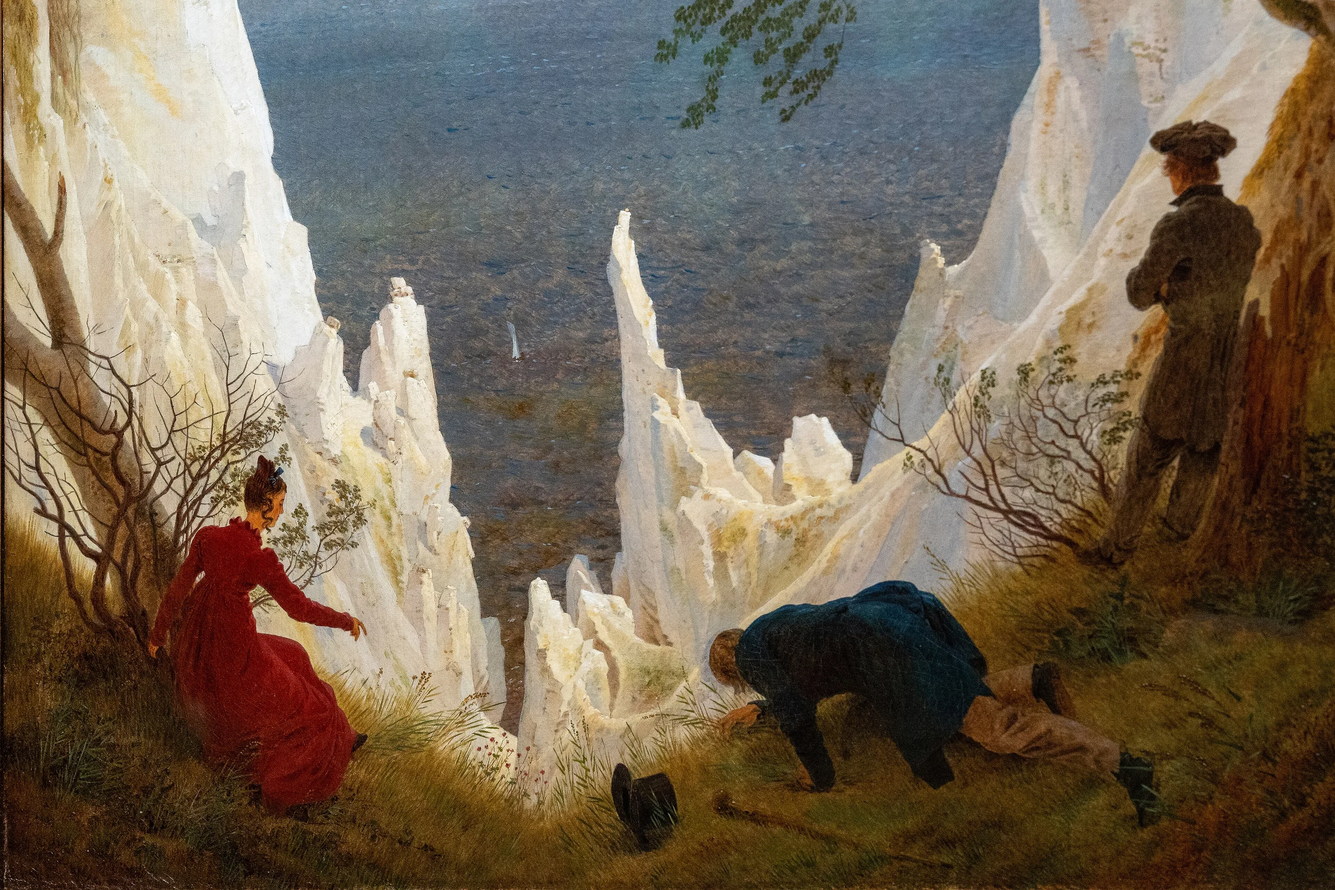
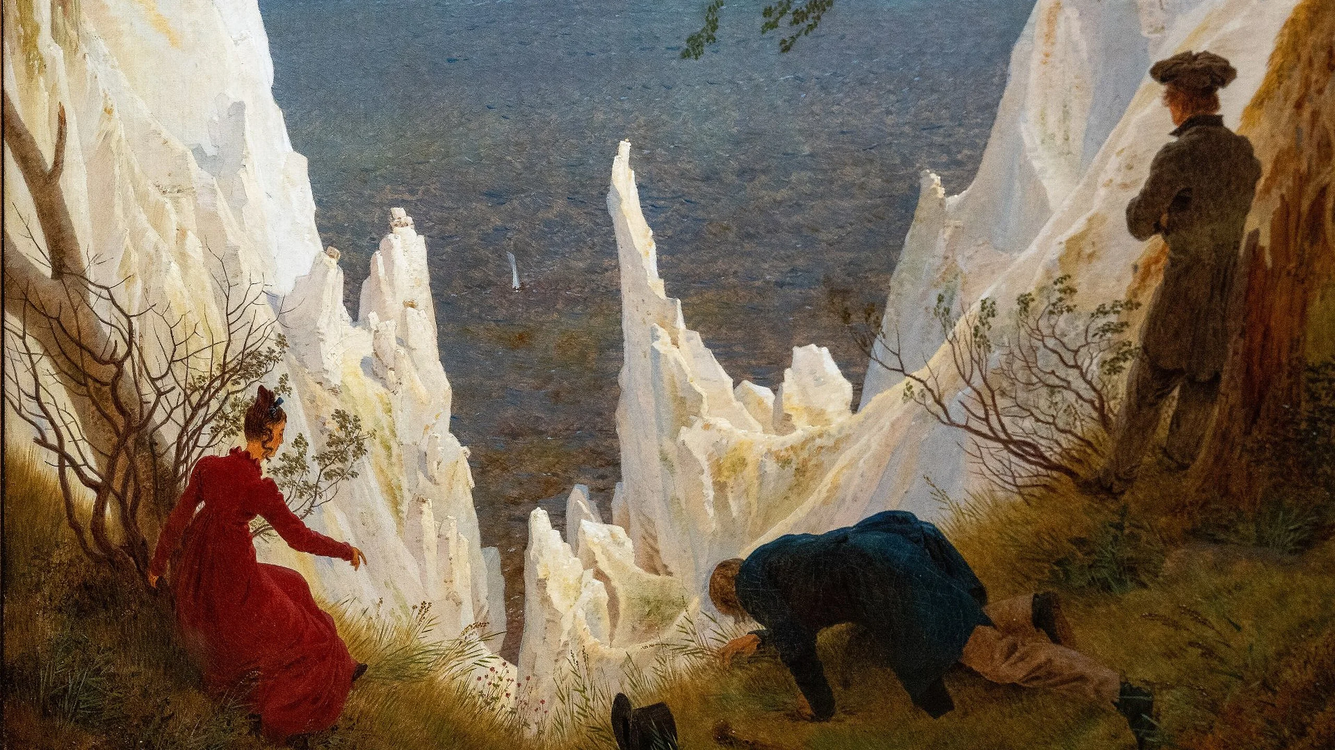
feat(screensaver-landscape): optimize assets to QHD WebP and curate 10 16:9 artworks

diff --git a/tools/convert_landscape_assets.py b/tools/convert_landscape_assets.py
@@ -1,82 +1,94 @@
 #!/usr/bin/env python3
 """
-Convert landscape paintings from resources/ zip archives to optimized WebP for Android TV.
-Filters out vertical paintings (aspect ratio < 1.0).
-Resizes to max dimension 2560px using Lanczos filter.
+Convert landscape paintings from resources/landscape/ to optimized QHD (2560x1440) WebP for Android TV.
+Resizes using Lanczos filter and encodes to WebP Q85.
 Outputs to apps/screensaver-landscape/src/main/assets/landscapes/.
 """
-import io
 import os
 import sys
-import zipfile
 from PIL import Image
 
 SCRIPT_DIR = os.path.dirname(os.path.abspath(__file__))
 ROOT_DIR = os.path.dirname(SCRIPT_DIR)
 OUT_DIR = os.path.join(ROOT_DIR, "apps", "screensaver-landscape", "src", "main", "assets", "landscapes")
 
-ZIP_FILES = [
-    os.path.join(ROOT_DIR, "resources", "tranh-phong-canh-p1.zip"),
-    os.path.join(ROOT_DIR, "resources", "tranh-phong-canh-p2.zip"),
+# Search for resources/landscape directory (support both root repo and worktree execution)
+CANDIDATE_DIRS = [
+    os.path.join(ROOT_DIR, "resources", "landscape"),
+    os.path.join(ROOT_DIR, "..", "..", "resources", "landscape"),
+    "/home/lamnh/projects/nova-tv-launcher/resources/landscape",
 ]
 
-# Mapping from zip filename to clean asset id
+SRC_DIR = None
+for c in CANDIDATE_DIRS:
+    if os.path.isdir(c):
+        SRC_DIR = os.path.abspath(c)
+        break
+
+# Mapping from source jpg in resources/landscape to target asset filename
 FILE_MAPPING = {
-    "01-hay-wain-constable.jpg": "hay_wain.webp",
-    "02-ninth-wave-aivazovsky.jpg": "ninth_wave.webp",
-    "03-rain-steam-speed-turner.jpg": "rain_steam_speed.webp",
-    "04-chalk-cliffs-rugen-friedrich.jpg": "chalk_cliffs.webp",
-    "05-mont-sainte-victoire-cezanne.jpg": "mont_sainte_victoire.webp",
-    "06-oxbow-thomas-cole.jpg": "oxbow.webp",
-    "07-heart-of-andes-church.jpg": "heart_of_andes.webp",
-    "08-niagara-church.jpg": "niagara.webp",
-    "09-rocky-mountains-bierstadt.jpg": "rocky_mountains.webp",
-    "10-magpie-monet.jpg": "magpie.webp",
-    # 11-rouen-cathedral-monet.jpg is vertical -> EXCLUDED
-    "12-olive-trees-van-gogh.jpg": "olive_trees.webp",
-    # 13-sudden-shower-hiroshige.jpg is vertical -> EXCLUDED
-    "14-flood-port-marly-sisley.jpg": "flood_port_marly.webp",
-    "15-bridge-narni-corot.jpg": "bridge_narni.webp",
-    # 16-plum-park-hiroshige.jpg is vertical -> EXCLUDED
+    "01-hay-wain-constable-16x9-3840x2160.jpg": "hay_wain.webp",
+    "02-ninth-wave-aivazovsky-16x9-3840x2160.jpg": "ninth_wave.webp",
+    "04-chalk-cliffs-rugen-friedrich-16x9-3840x2160.jpg": "chalk_cliffs.webp",
+    "05-mont-sainte-victoire-cezanne-16x9-3840x2160.jpg": "mont_sainte_victoire.webp",
+    "06-oxbow-thomas-cole-16x9-3840x2160.jpg": "oxbow.webp",
+    "07-heart-of-andes-church-16x9-3840x2160.jpg": "heart_of_andes.webp",
+    "08-niagara-church-16x9-3840x2160.jpg": "niagara.webp",
+    "09-rocky-mountains-bierstadt-16x9-3840x2160.jpg": "rocky_mountains.webp",
+    "14-flood-port-marly-sisley-16x9-3840x2160.jpg": "flood_port_marly.webp",
+    "15-bridge-narni-corot-16x9-3840x2160.jpg": "bridge_narni.webp",
 }
 
-MAX_DIM = 2560
+TARGET_WIDTH = 2560
+TARGET_HEIGHT = 1440
 WEBP_QUALITY = 85
 
 def convert_all():
+    if not SRC_DIR:
+        print("Error: Could not locate resources/landscape directory in search paths:", file=sys.stderr)
+        for c in CANDIDATE_DIRS:
+            print(f"  - {c}", file=sys.stderr)
+        sys.exit(1)
+
+    print(f"Source directory: {SRC_DIR}")
+    print(f"Output directory: {OUT_DIR}")
     os.makedirs(OUT_DIR, exist_ok=True)
+
+    # Clean existing webp files in target directory to avoid obsolete assets
+    existing_files = os.listdir(OUT_DIR)
+    for f in existing_files:
+        if f.endswith(".webp") and f not in FILE_MAPPING.values():
+            stale_path = os.path.join(OUT_DIR, f)
+            print(f"Removing stale asset: {f}")
+            os.remove(stale_path)
+
     converted_count = 0
+    total_bytes = 0
 
-    for zip_path in ZIP_FILES:
-        if not os.path.exists(zip_path):
-            print(f"Error: Zip file not found: {zip_path}", file=sys.stderr)
+    for src_name, target_name in FILE_MAPPING.items():
+        src_path = os.path.join(SRC_DIR, src_name)
+        if not os.path.exists(src_path):
+            print(f"Error: Missing source image {src_path}", file=sys.stderr)
             sys.exit(1)
-        with zipfile.ZipFile(zip_path, "r") as z:
-            for zip_name, target_name in FILE_MAPPING.items():
-                if zip_name in z.namelist():
-                    data = z.read(zip_name)
-                    im = Image.open(io.BytesIO(data))
-                    w, h = im.size
-                    if w < h:
-                        print(f"Skipping vertical painting: {zip_name} ({w}x{h})")
-                        continue
 
-                    # Resample if exceeds MAX_DIM
-                    if max(w, h) > MAX_DIM:
-                        im.thumbnail((MAX_DIM, MAX_DIM), Image.Resampling.LANCZOS)
+        im = Image.open(src_path)
+        if im.size != (TARGET_WIDTH, TARGET_HEIGHT):
+            im = im.resize((TARGET_WIDTH, TARGET_HEIGHT), Image.Resampling.LANCZOS)
 
-                    # Ensure RGB mode (no RGBA or CMYK)
-                    if im.mode != "RGB":
-                        im = im.convert("RGB")
+        if im.mode != "RGB":
+            im = im.convert("RGB")
 
-                    out_path = os.path.join(OUT_DIR, target_name)
-                    im.save(out_path, format="WEBP", quality=WEBP_QUALITY, method=6)
-                    size_kb = os.path.getsize(out_path) / 1024
-                    print(f"Converted {zip_name} -> {target_name} ({im.size[0]}x{im.size[1]}, {size_kb:.1f} KB)")
-                    converted_count += 1
+        out_path = os.path.join(OUT_DIR, target_name)
+        im.save(out_path, format="WEBP", quality=WEBP_QUALITY, method=6)
 
-    print(f"\nTotal converted landscape paintings: {converted_count}")
-    assert converted_count == 13, f"Expected 13 paintings, got {converted_count}"
+        sz = os.path.getsize(out_path)
+        total_bytes += sz
+        converted_count += 1
+        print(f"[{converted_count:02d}/10] Converted {src_name} -> {target_name} ({TARGET_WIDTH}x{TARGET_HEIGHT}, {sz / 1024:.1f} KB)")
+
+    print(f"\nSuccessfully converted {converted_count} landscape paintings to QHD WebP.")
+    print(f"Total package asset size: {total_bytes / (1024 * 1024):.2f} MB ({total_bytes / converted_count / 1024:.1f} KB avg)")
+    assert converted_count == 10, f"Expected 10 paintings, got {converted_count}"
 
 if __name__ == "__main__":
     convert_all()

diff --git a/apps/screensaver-landscape/src/main/java/com/appletv/screensaver/landscape/LandscapeCatalog.java b/apps/screensaver-landscape/src/main/java/com/appletv/screensaver/landscape/LandscapeCatalog.java
@@ -14,79 +14,61 @@ public final class LandscapeCatalog {
                 "hay_wain", "hay_wain.webp",
                 "Xe chở cỏ khô", "The Hay Wain",
                 "John Constable", "1821",
-                "National Gallery, London", 1.45f
+                "National Gallery, London", 1.778f
         ));
         PIECES.add(new LandscapePiece(
                 "ninth_wave", "ninth_wave.webp",
                 "Con sóng thứ chín", "The Ninth Wave",
                 "Ivan Aivazovsky", "1850",
-                "State Russian Museum, St. Petersburg", 1.51f
-        ));
-        PIECES.add(new LandscapePiece(
-                "rain_steam_speed", "rain_steam_speed.webp",
-                "Mưa, hơi nước và tốc độ", "Rain, Steam and Speed",
-                "J.M.W. Turner", "1844",
-                "National Gallery, London", 1.20f
+                "State Russian Museum, St. Petersburg", 1.778f
         ));
         PIECES.add(new LandscapePiece(
                 "chalk_cliffs", "chalk_cliffs.webp",
                 "Vách đá phấn trên đảo Rügen", "Chalk Cliffs on Rügen",
                 "Caspar David Friedrich", "1818",
-                "Kunstmuseum Winterthur", 1.50f
+                "Kunstmuseum Winterthur", 1.778f
         ));
         PIECES.add(new LandscapePiece(
                 "mont_sainte_victoire", "mont_sainte_victoire.webp",
                 "Núi Sainte-Victoire", "Mont Sainte-Victoire",
                 "Paul Cézanne", "1904",
-                "Philadelphia Museum of Art", 1.38f
+                "Philadelphia Museum of Art", 1.778f
         ));
         PIECES.add(new LandscapePiece(
                 "oxbow", "oxbow.webp",
                 "Khúc quanh sông Oxbow", "The Oxbow",
                 "Thomas Cole", "1836",
-                "Metropolitan Museum of Art, New York", 1.33f
+                "Metropolitan Museum of Art, New York", 1.778f
         ));
         PIECES.add(new LandscapePiece(
                 "heart_of_andes", "heart_of_andes.webp",
                 "Trái tim dãy Andes", "The Heart of the Andes",
                 "Frederic Edwin Church", "1859",
-                "Metropolitan Museum of Art, New York", 1.83f
+                "Metropolitan Museum of Art, New York", 1.778f
         ));
         PIECES.add(new LandscapePiece(
                 "niagara", "niagara.webp",
                 "Thác Niagara", "Niagara",
                 "Frederic Edwin Church", "1857",
-                "National Gallery of Art, Washington D.C.", 2.15f
+                "National Gallery of Art, Washington D.C.", 1.778f
         ));
         PIECES.add(new LandscapePiece(
                 "rocky_mountains", "rocky_mountains.webp",
                 "Dãy Rocky", "The Rocky Mountains, Lander's Peak",
                 "Albert Bierstadt", "1863",
-                "Metropolitan Museum of Art, New York", 1.67f
-        ));
-        PIECES.add(new LandscapePiece(
-                "magpie", "magpie.webp",
-                "Chim ác là", "The Magpie",
-                "Claude Monet", "1869",
-                "Musée d'Orsay, Paris", 1.50f
-        ));
-        PIECES.add(new LandscapePiece(
-                "olive_trees", "olive_trees.webp",
-                "Cây ô liu", "The Olive Trees",
-                "Vincent van Gogh", "1889",
-                "Museum of Modern Art, New York", 1.26f
+                "Metropolitan Museum of Art, New York", 1.778f
         ));
         PIECES.add(new LandscapePiece(
                 "flood_port_marly", "flood_port_marly.webp",
                 "Lũ lụt ở Port-Marly", "Flood at Port-Marly",
                 "Alfred Sisley", "1876",
-                "Musée d'Orsay, Paris", 1.26f
+                "Musée d'Orsay, Paris", 1.778f
         ));
         PIECES.add(new LandscapePiece(
                 "bridge_narni", "bridge_narni.webp",
                 "Cầu ở Narni", "The Bridge at Narni",
                 "Camille Corot", "1826",
-                "Musée du Louvre, Paris", 1.47f
+                "Musée du Louvre, Paris", 1.778f
         ));
     }
 

diff --git a/apps/screensaver-landscape/src/test/java/com/appletv/screensaver/landscape/LandscapeCatalogTest.java b/apps/screensaver-landscape/src/test/java/com/appletv/screensaver/landscape/LandscapeCatalogTest.java
@@ -8,9 +8,9 @@ import static org.junit.Assert.*;
 public class LandscapeCatalogTest {
 
     @Test
-    public void testCatalogHasExactThirteenPieces() {
-        assertEquals(13, LandscapeCatalog.getCount());
-        assertEquals(13, LandscapeCatalog.getPieces().size());
+    public void testCatalogHasExactTenPieces() {
+        assertEquals(10, LandscapeCatalog.getCount());
+        assertEquals(10, LandscapeCatalog.getPieces().size());
     }
 
     @Test
@@ -36,8 +36,8 @@ public class LandscapeCatalogTest {
     @Test
     public void testGetPieceNormalization() {
         LandscapePiece first = LandscapeCatalog.getPiece(0);
-        LandscapePiece wrapPositive = LandscapeCatalog.getPiece(13);
-        LandscapePiece wrapNegative = LandscapeCatalog.getPiece(-13);
+        LandscapePiece wrapPositive = LandscapeCatalog.getPiece(10);
+        LandscapePiece wrapNegative = LandscapeCatalog.getPiece(-10);
         assertEquals(first.id, wrapPositive.id);
         assertEquals(first.id, wrapNegative.id);
     }
@@ -48,7 +48,7 @@ public class LandscapeCatalogTest {
         for (int prev = 0; prev < LandscapeCatalog.getCount(); prev++) {
             for (int run = 0; run < 10; run++) {
                 List<Integer> shuffled = LandscapeCatalog.createShuffledIndices(random, prev);
-                assertEquals(13, shuffled.size());
+                assertEquals(10, shuffled.size());
                 assertNotEquals("First item of shuffled playlist must not be previous index", (Integer) prev, shuffled.get(0));
             }
         }

diff --git a/apps/screensaver-landscape/src/main/java/com/appletv/screensaver/landscape/LandscapeView.java b/apps/screensaver-landscape/src/main/java/com/appletv/screensaver/landscape/LandscapeView.java
@@ -223,7 +223,10 @@ public class LandscapeView extends FrameLayout {
         nextSlide.resetTransform();
 
         // Directional Ken Burns setup
-        final boolean isPanorama = piece.aspectRatio > 1.78f;
+        // If wider than 16:9, drift horizontally. If taller, drift vertically.
+        // For 16:9 images, randomly alternate horizontal or vertical motion for cinematic variety.
+        final boolean isPanorama = (piece.aspectRatio > 1.78f) ||
+                (Math.abs(piece.aspectRatio - 1.778f) < 0.05f && random.nextBoolean());
         final boolean reverseMotion = random.nextBoolean();
 
         startKenBurns(nextSlide, isPanorama, reverseMotion);
